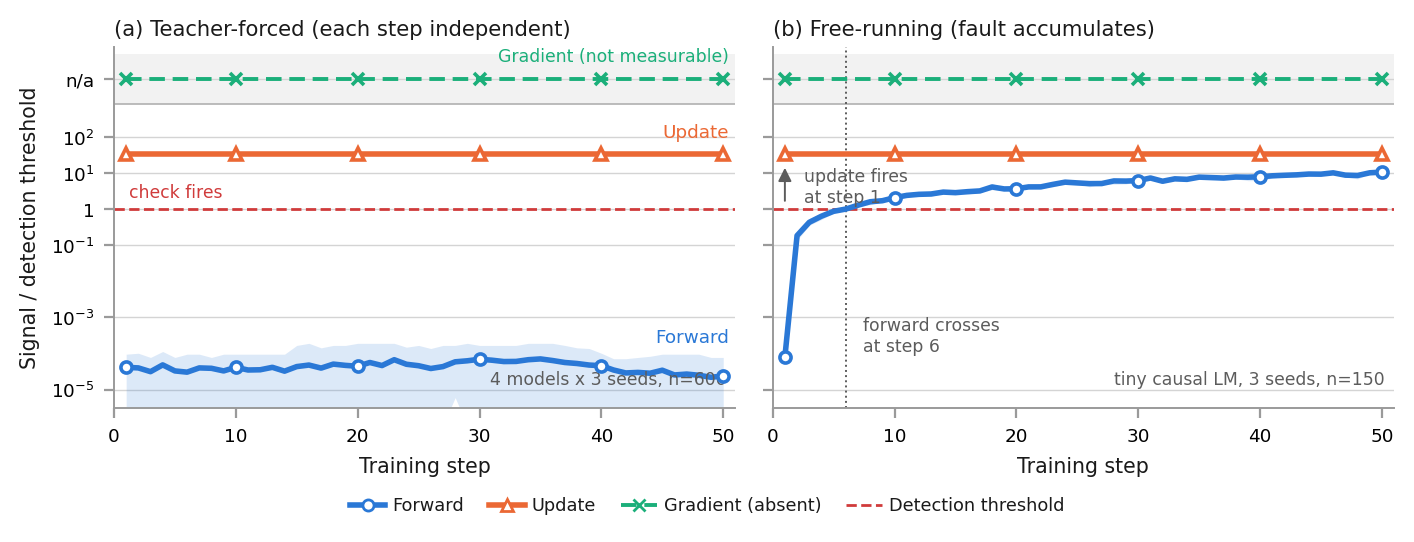
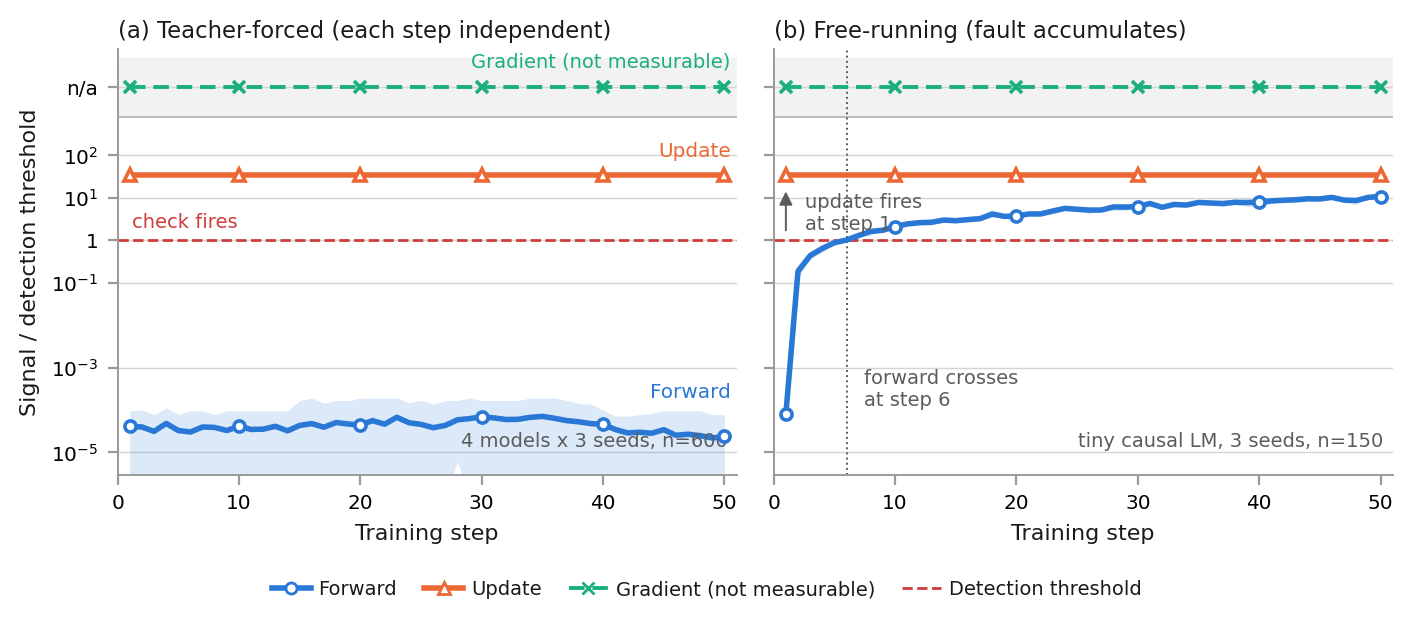
Enlarge Figure 1 text for print, and give its gradient series one name
Codex inspection of the rendered figure at page scale reported the
smallest text as borderline rather than comfortably readable. Stepped
every size up (callouts 6.2 to 7.0pt, ticks 6.6 to 7.2, axis labels 7.4
to 8.0, titles 7.6 to 8.2, legend 6.4 to 7.0) and raised the height from
2.5in to 2.9in so the larger text does not crowd the traces.

The legend said 'Gradient (absent)' while the direct label said 'Gradient
(not measurable)' for the same series. Both now use the latter.

Re-inspected standalone and embedded in page 2: no new collisions, no
clipping, still 8 pages, no box warnings.

diff --git a/figures/make_divergence_trajectory.py b/figures/make_divergence_trajectory.py
@@ -102,7 +102,7 @@ def panel(ax, sub, title, subtitle):
     ax.set_xlim(0, 51)
     ax.set_yticks([1e-5, 1e-3, 1e-1, 1, 1e1, 1e2, ABSENT_Y])
     ax.set_yticklabels(["$10^{-5}$", "$10^{-3}$", "$10^{-1}$", "1", "$10^{1}$",
-                        "$10^{2}$", "n/a"], fontsize=6.6)
+                        "$10^{2}$", "n/a"], fontsize=7.2)
     ax.grid(True, axis="y", which="major", linestyle="-", linewidth=0.5,
             color=GRID, zorder=0)
     ax.set_axisbelow(True)
@@ -111,15 +111,15 @@ def panel(ax, sub, title, subtitle):
     for side in ("left", "bottom"):
         ax.spines[side].set_color("#9a9a9a")
         ax.spines[side].set_linewidth(0.7)
-    ax.tick_params(labelsize=6.6, color="#9a9a9a")
-    ax.set_title(title, fontsize=7.6, color=INK, pad=4.0, loc="left")
+    ax.tick_params(labelsize=7.2, color="#9a9a9a")
+    ax.set_title(title, fontsize=8.2, color=INK, pad=4.0, loc="left")
     # subtitle goes inside the empty mid-band, not on the title baseline
-    ax.text(0.985, 0.055, subtitle, transform=ax.transAxes, fontsize=6.2,
+    ax.text(0.985, 0.055, subtitle, transform=ax.transAxes, fontsize=7.0,
             color=MUTED, va="bottom", ha="right")
 
 
 train = load()
-fig, axes = plt.subplots(1, 2, figsize=(7.0, 2.5), sharey=True)
+fig, axes = plt.subplots(1, 2, figsize=(7.0, 2.9), sharey=True)
 
 tf = train[train.coupling == "teacher-forced"]
 panel(axes[0], tf, "(a) Teacher-forced (each step independent)",
@@ -131,13 +131,13 @@ panel(axes[1], fr, "(b) Free-running (fault accumulates)",
 
 # direct labels: identity is never color-alone, and they satisfy the contrast WARN.
 # Each sits ABOVE its line so nothing is cramped against the axis floor.
-axes[0].text(50.5, 4.4e-5 * 3.6, "Forward", fontsize=6.6,
+axes[0].text(50.5, 4.4e-5 * 3.6, "Forward", fontsize=7.2,
              color=STYLE["loss_abs_diff"]["color"], ha="right", va="bottom")
-axes[0].text(50.5, 33.3 * 2.2, "Update", fontsize=6.6,
+axes[0].text(50.5, 33.3 * 2.2, "Update", fontsize=7.2,
              color=STYLE["param_update_rel_l2"]["color"], ha="right", va="bottom")
-axes[0].text(50.5, ABSENT_Y * 2.4, "Gradient (not measurable)", fontsize=6.2,
+axes[0].text(50.5, ABSENT_Y * 2.4, "Gradient (not measurable)", fontsize=7.0,
              color=STYLE["grad_norm_abs_diff"]["color"], ha="right", va="bottom")
-axes[0].text(1.2, 1.0 * 1.6, "check fires", fontsize=6.2, color=FIRE,
+axes[0].text(1.2, 1.0 * 1.6, "check fires", fontsize=7.0, color=FIRE,
              ha="left", va="bottom")
 
 # panel (b): mark where the forward check finally notices
@@ -145,17 +145,17 @@ cross = fr.groupby("step").loss_abs_diff.mean() / THRESHOLD["loss_abs_diff"]
 first = int(cross[cross > 1.0].index.min())
 axes[1].axvline(first, color=MUTED, linewidth=0.7, linestyle=":", zorder=2)
 axes[1].text(first + 1.4, 3.0e-4, f"forward crosses\nat step {first}",
-             fontsize=6.2, color=MUTED, ha="left", va="center")
+             fontsize=7.0, color=MUTED, ha="left", va="center")
 # arrow stops short of the Update line rather than touching it
 axes[1].annotate("", xy=(1, 14.0), xytext=(1, 1.7),
                  arrowprops=dict(arrowstyle="-|>", color=MUTED, linewidth=0.7,
                                  shrinkA=0, shrinkB=0))
-axes[1].text(2.6, 4.2, "update fires\nat step 1", fontsize=6.2, color=MUTED,
+axes[1].text(2.6, 4.2, "update fires\nat step 1", fontsize=7.0, color=MUTED,
              ha="left", va="center")
 
-axes[0].set_ylabel("Signal / detection threshold", fontsize=7.4, color=INK)
+axes[0].set_ylabel("Signal / detection threshold", fontsize=8.0, color=INK)
 for ax in axes:
-    ax.set_xlabel("Training step", fontsize=7.4, color=INK)
+    ax.set_xlabel("Training step", fontsize=8.0, color=INK)
 
 handles = [
     plt.Line2D([], [], color=STYLE[s]["color"], linewidth=2.0,
@@ -166,11 +166,11 @@ handles = [
 ]
 handles.append(plt.Line2D([], [], color=STYLE["grad_norm_abs_diff"]["color"],
                           linewidth=1.4, linestyle=(0, (4, 2)), marker="x",
-                          markersize=4.6, label="Gradient (absent)"))
+                          markersize=4.6, label="Gradient (not measurable)"))
 handles.append(plt.Line2D([], [], color=FIRE, linewidth=1.0, linestyle="--",
                           label="Detection threshold"))
 # shared legend below both panels: inside either one it would sit on the data
-fig.legend(handles=handles, fontsize=6.4, loc="lower center", ncol=4,
+fig.legend(handles=handles, fontsize=7.0, loc="lower center", ncol=4,
            frameon=False, handletextpad=0.4, columnspacing=1.4,
            bbox_to_anchor=(0.5, -0.045), labelcolor=INK)
 
